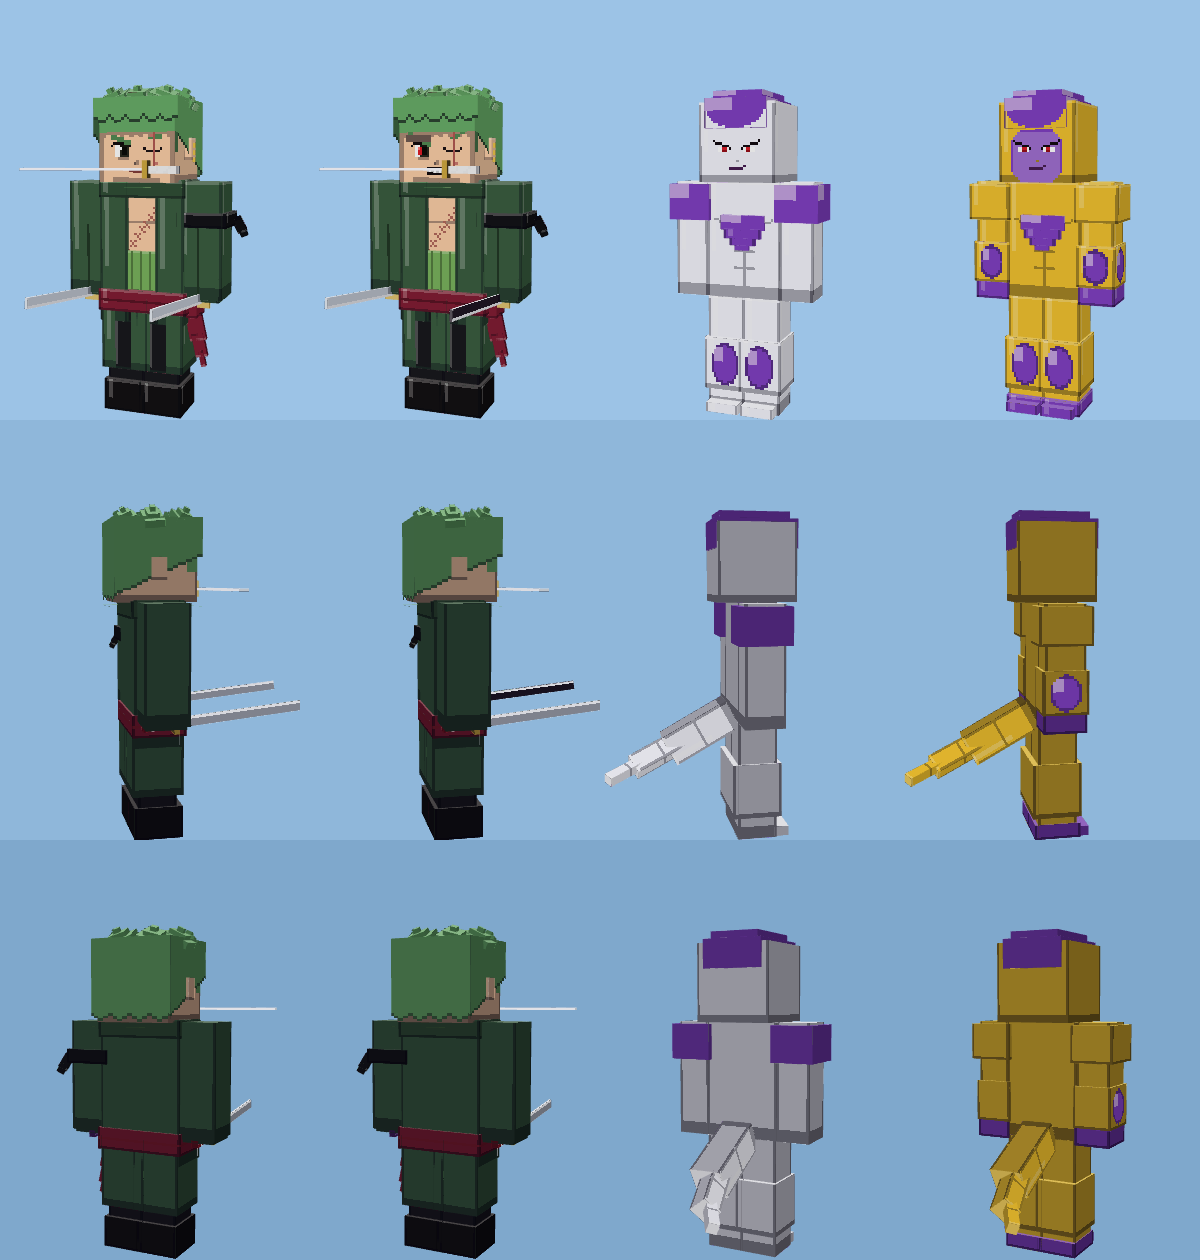
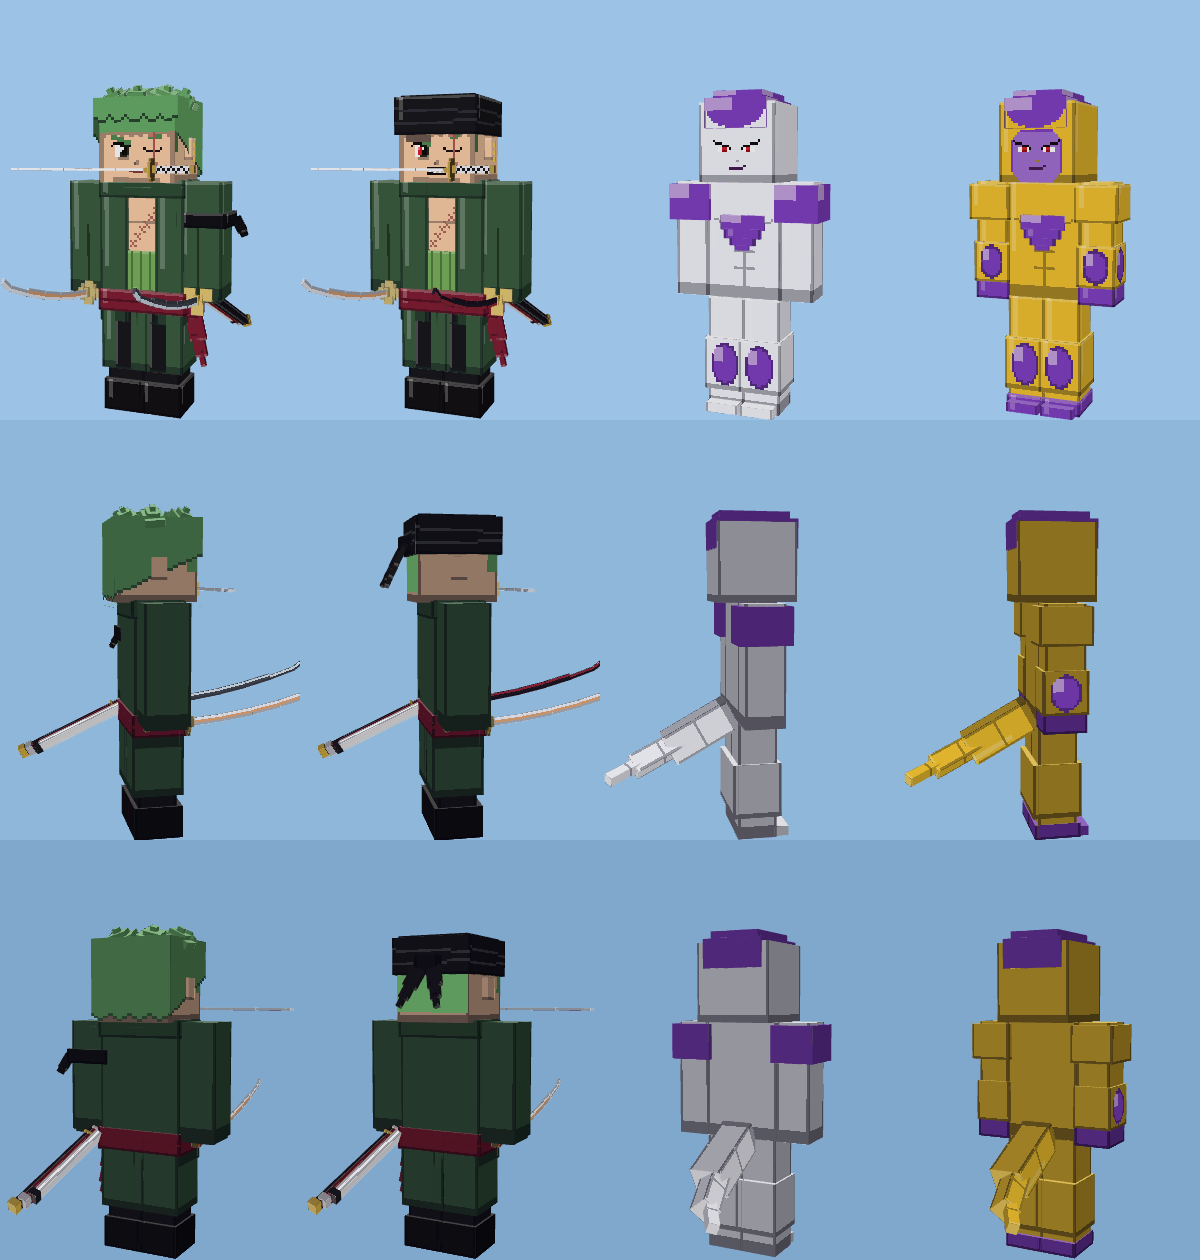
Docs: updated poses and Zoro/Frieza sheets, README feature list
Claude-Session: https://claude.ai/code/session_01Wj3ZgCx2qQCLAKn6cyfvsa

diff --git a/AnimeBattles/README.md b/AnimeBattles/README.md
@@ -40,6 +40,12 @@
 - **الضربات متحركة**: كل لكمة وركلة تبدأ بسحب ثم انطلاق سريع، وزورو يقاتل بقطعات سيف يمين ويسار وقطعة X بالسيفين.
 - **سيوف زورو** كما في الأنمي: وادو إيتشيمونجي (مقبض أبيض بمعينات سوداء وحارس دائري)، سانداي كيتيتسو (مقبض أحمر وحارس رباعي وخط تموج على النصل)، إنما (مقبض بنفسجي بحلقات ذهبية وحارس بثلاث دوائر)، بنصل منحني والأغماد الثلاثة على الخصر. في شكل ملك الجحيم يربط الباندانا السوداء على رأسه.
 - بيض الشخصيات يظهر عليه **وجه الشخصية**.
+- **حركة لكل جير عند لوفي**: الجير 2 ينحني ويضخ الدم، الجير 3 و4 يعض ذراعه وينفخ، الجير 5 يضحك وذراعاه مفتوحتان. ومسدس المطاط يرجع للخلف أولاً ثم ينطلق، وكذلك البازوكا.
+- **شحن الكي**: غوكو وفيجيتا وفريزا يتوقفون ويصرخون لشحن الطاقة عندما تنخفض.
+- **دخول وفوز**: عند إخراج الشخصية من البيضة تقوم بحركتها المميزة، وعند هزيمة الخصم: فيجيتا وفريزا يكتّفان أيديهما، لوفي يضحك، غوجو وسوكونا يعملان إشارة اليد، والباقي يرفع قبضته.
+- **Ultra Instinct**: قميص غوكو البرتقالي ممزق ويظهر القميص الأزرق المقطوع كما في نهاية بطولة القوة.
+- **الكاميهاميها** تُقال مقطعاً مقطعاً (Ka... me... ha... me... HA!)، وGalick... GUN!!
+- **الأطوال**: فيجيتا أقصر من غوكو، غوجو أطول، زورو أطول قليلاً، فريزا أقصر.
 
 ## القدرات
 **غوكو** (قوة 150 ثم 430): Ki Blast، كاميهاميها، الانتقال اللحظي، كايوكن، ضربة التنين (من SSJ3)، قنبلة الروح (عند الضعف). تفادي 10%، وفي Ultra Instinct 60%.
